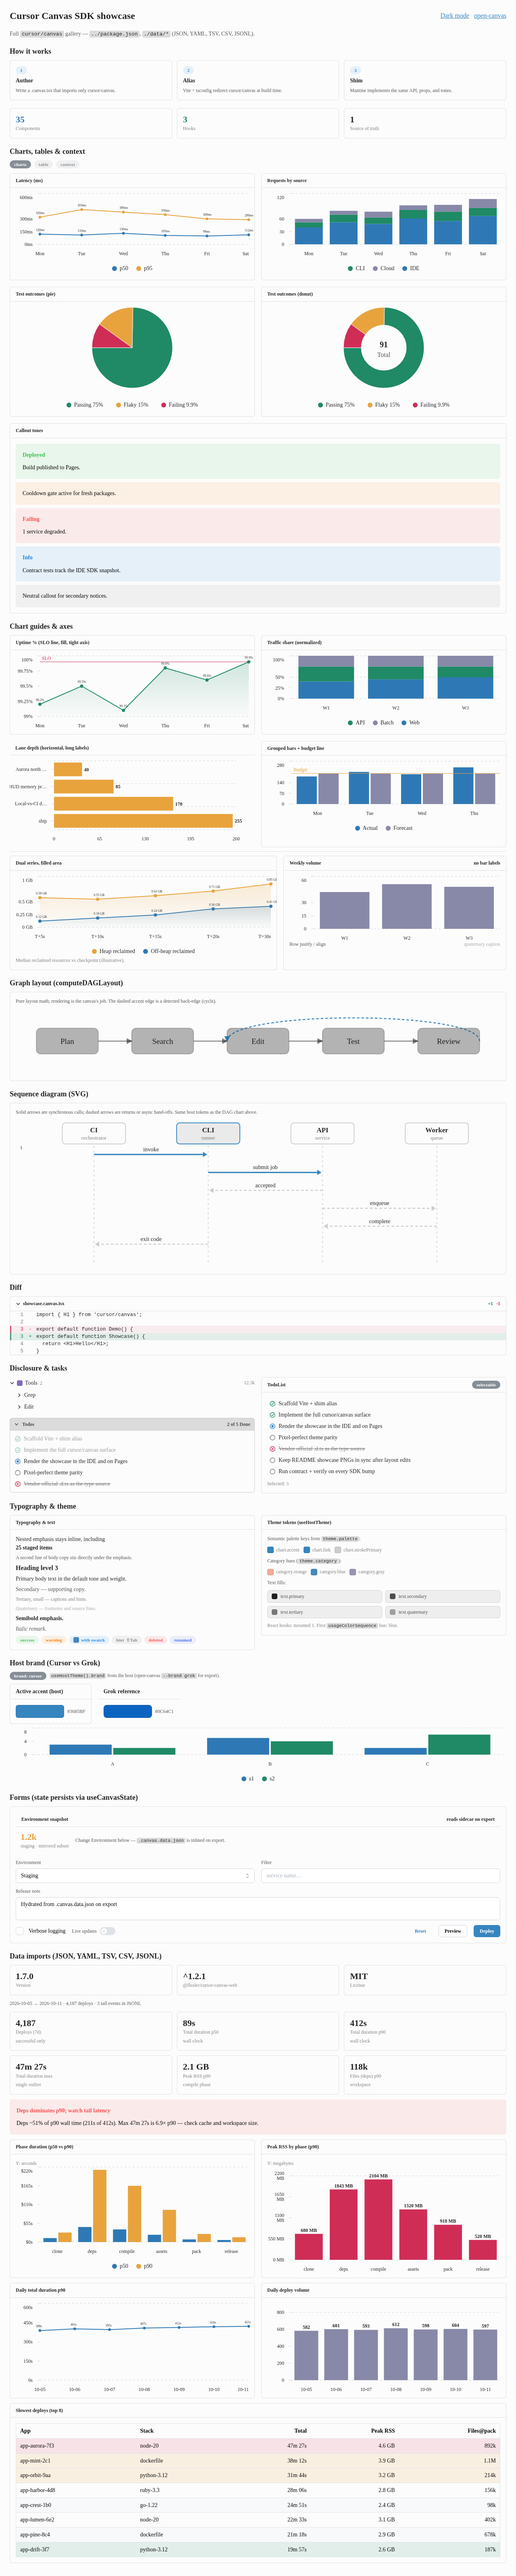
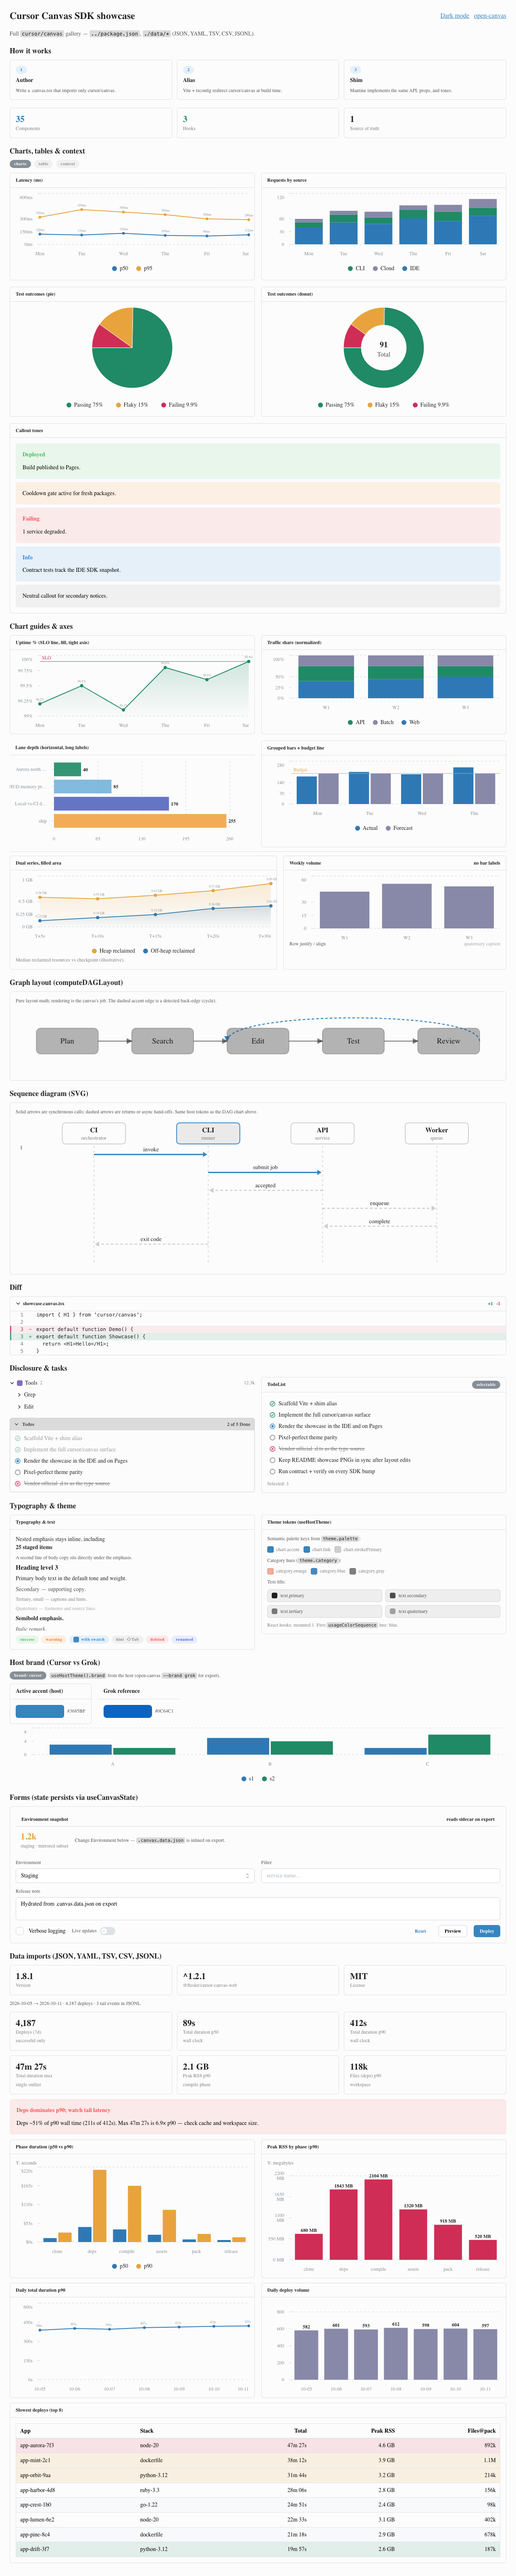
Showcase single-series per-category bar colors on Lane depth

diff --git a/example/showcase.canvas.tsx b/example/showcase.canvas.tsx
@@ -809,7 +809,7 @@ export default function ShowcaseCanvas() {
 									'ship',
 								]}
 								series={[
-									{ name: 'Depth', data: [40, 85, 170, 255], tone: 'warning' },
+									{ name: 'Depth', data: [40, 85, 170, 255] },
 								]}
 								height={200}
 								horizontal
